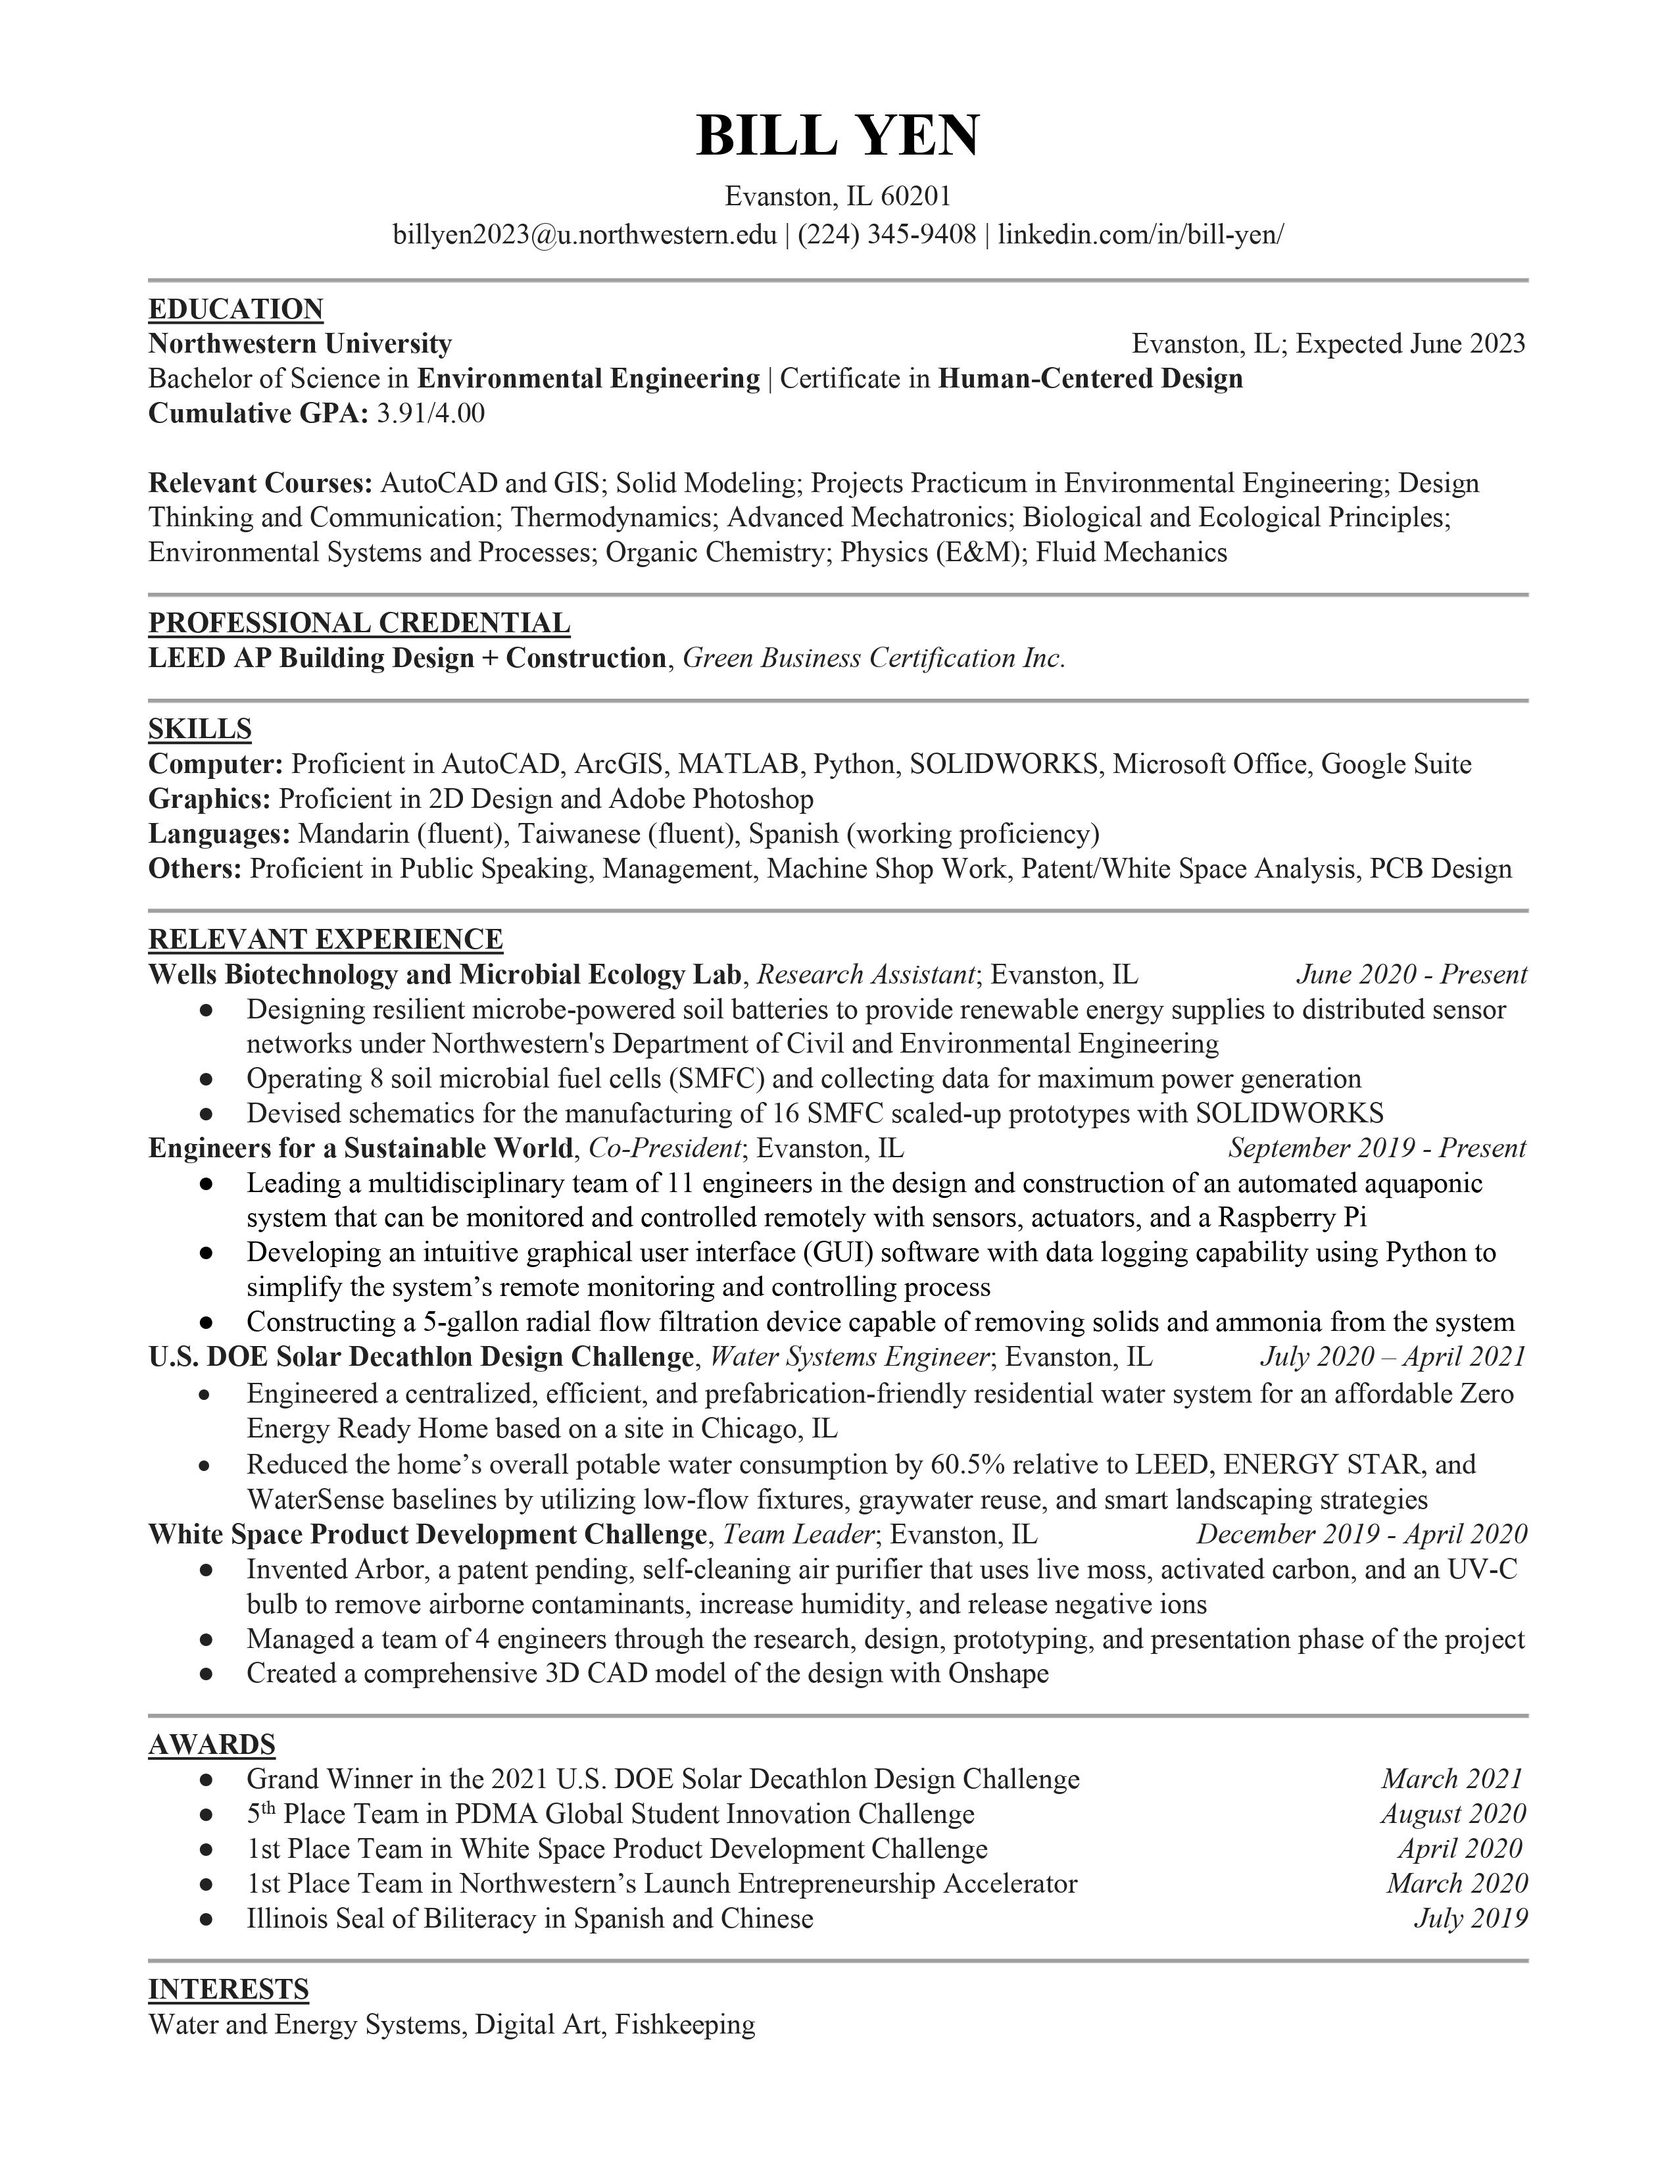
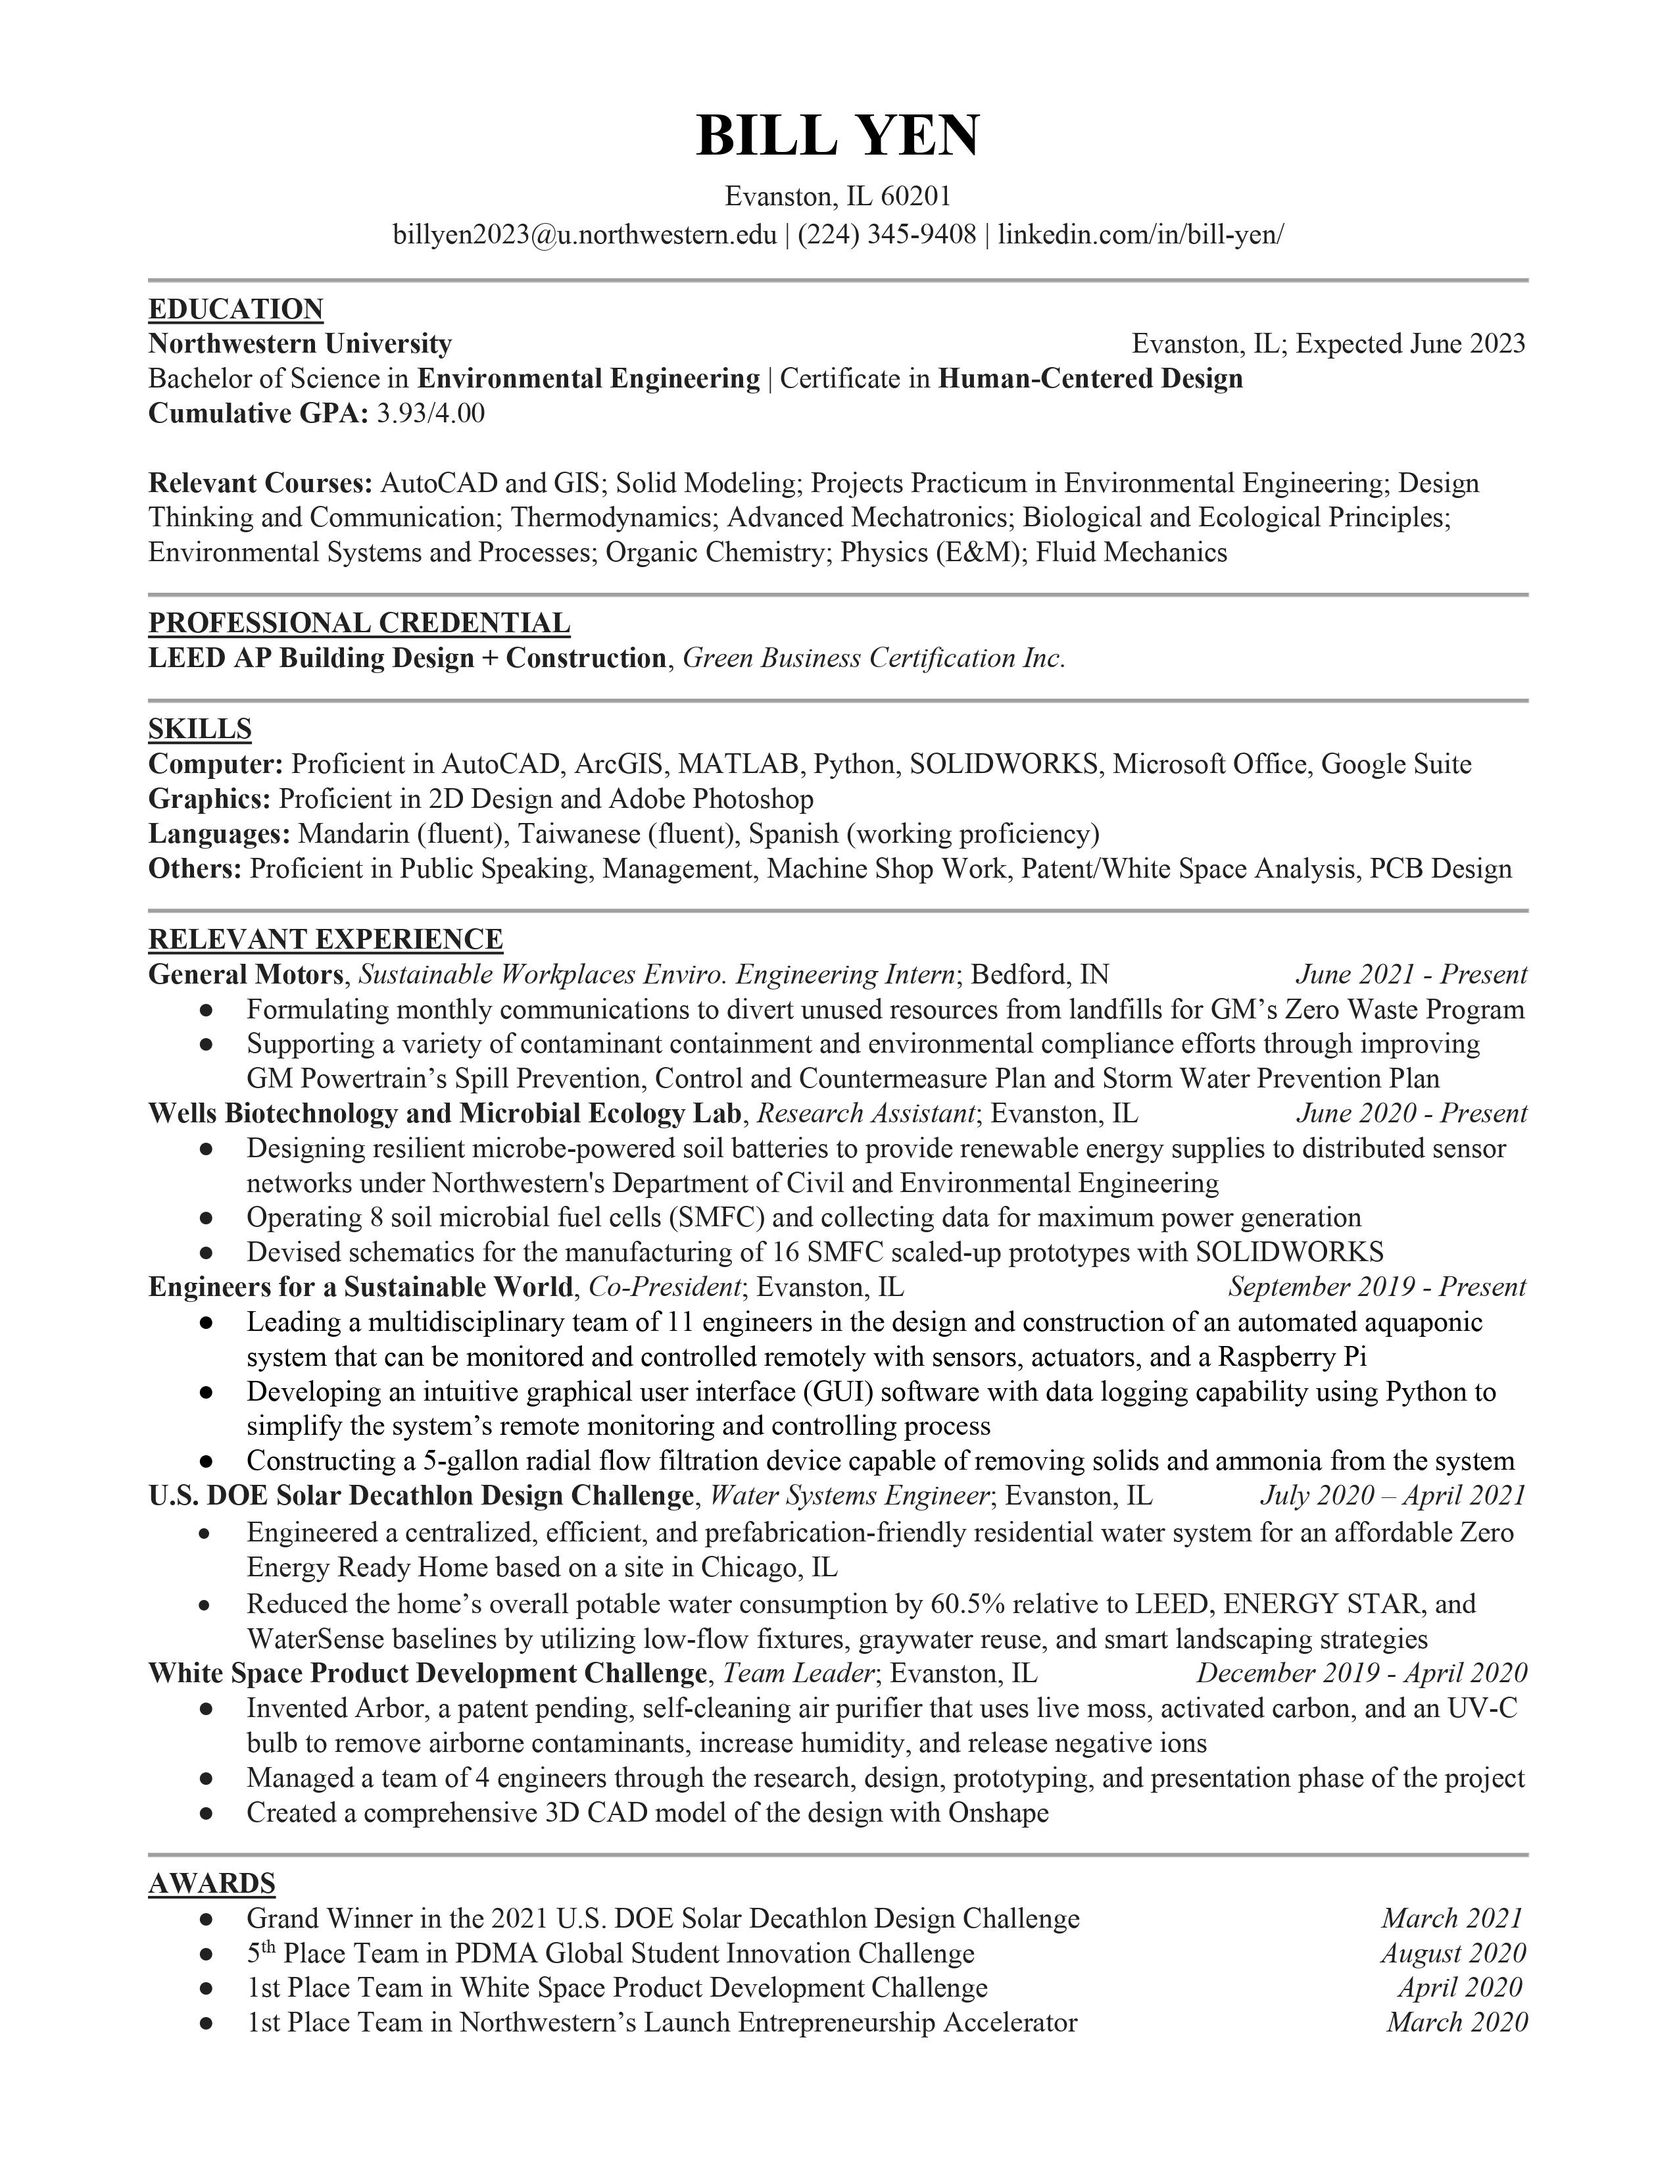
updated resume

Changed region(s): [[0.0929, 0.437, 0.9294, 0.9364]]

diff --git a/index.html b/index.html
@@ -466,11 +466,12 @@ https://templatemo.com/tm-531-reflux
             <div class="line-dec"></div>
             
             <span>
+              <!--https://smallpdf.com/pdf-to-jpg is the link used to make this jpeg->
               <!--<object data="mypdf.pdf" type="application/pdf" style="min-height:100vh; width:100%">
                 <embed src="https://drive.google.com/file/d/1NYKt1UbA-SF7ZjGJpKkkwFJCHX_qrThk/preview?usp=sharing" width="100%" height="600vh"/> 
               </object>
               <object data="assets/resume.pdf" type="application/pdf" style="min-height:100vh; width:100%;"></object>-->
-              <a href="https://drive.google.com/file/d/1NYKt1UbA-SF7ZjGJpKkkwFJCHX_qrThk/view?usp=sharing">
+              <a href="https://drive.google.com/file/d/1YtTNuunnqiG7tNgzRr2WVQwzQJFSd35m/view?usp=sharing">
               <img src="assets/images/resume.jpg" alt="Bill's resume" style="padding: 10px;"/>
               </a>
             </span
